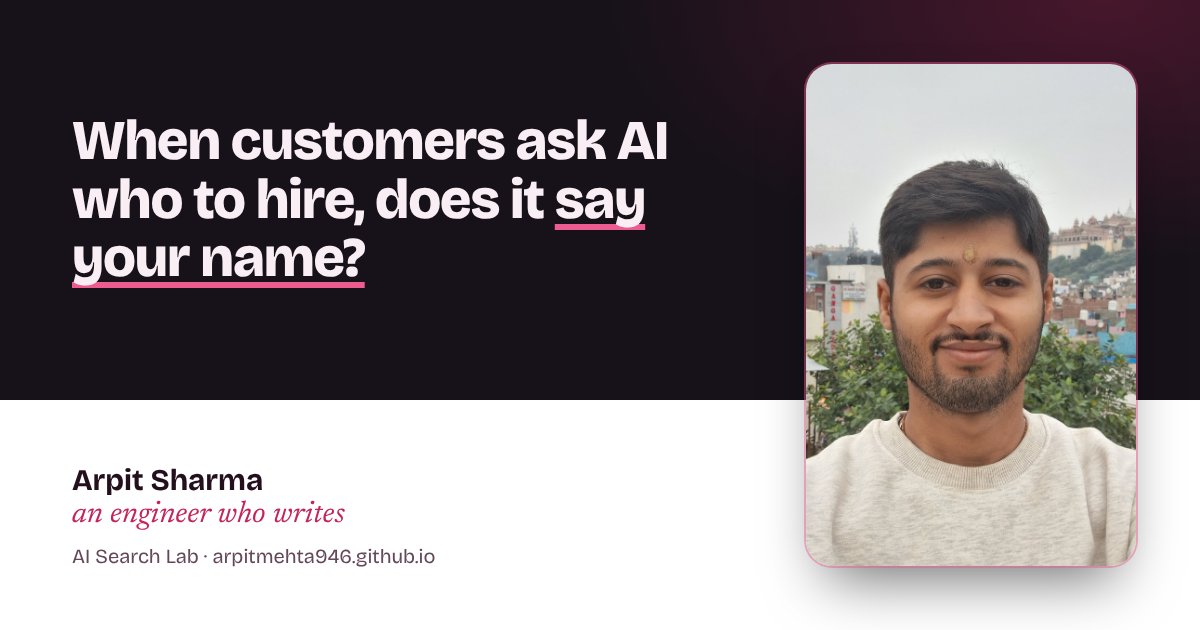
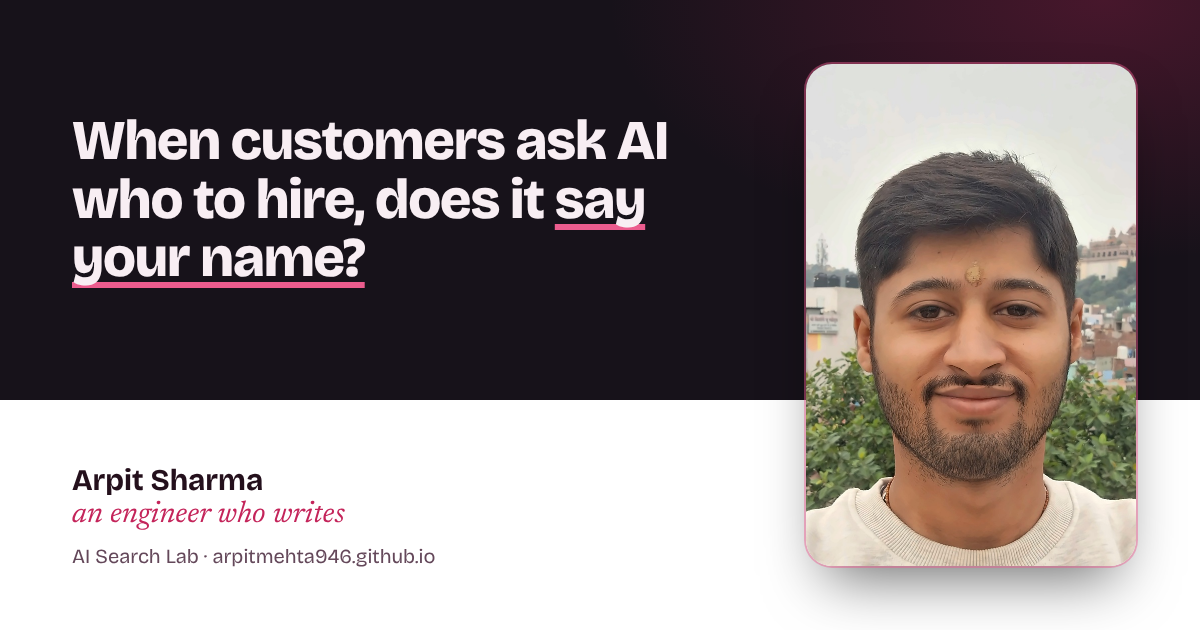
Enhanced photo: About header, home profile card, Person schema image, share image
Claude-Session: https://claude.ai/code/session_01M68n7HZHTDYbQFJamgv4ix

Changed region(s): [[0.6475, 0.2413, 0.9558, 0.9048]]

diff --git a/index.html b/index.html
@@ -34,7 +34,7 @@
       "@id": "https://arpitmehta946.github.io/#arpit",
       "name": "Arpit Sharma",
       "url": "https://arpitmehta946.github.io/",
-      "image": "https://arpitmehta946.github.io/og.png",
+      "image": "https://arpitmehta946.github.io/arpit-sharma.jpg",
       "email": "mailto:arpitmehtam@gmail.com",
       "jobTitle": "SEO & Content Specialist",
       "description": "Engineer who writes, from Amb, Himachal Pradesh. Runs AI Search Lab, public tests of how ChatGPT, Gemini, Perplexity and Google AI Mode choose which brands to recommend. Built PayEdd. Currently SEO & Content at Aqlix IT Solutions.",
@@ -445,6 +445,7 @@ h1 .tool{background:none!important;-webkit-background-clip:initial!important;bac
 #proof .check,#work .check,.contact .check{background:linear-gradient(150deg,rgba(244,163,191,.14),rgba(196,36,90,.10))!important;border-color:rgba(244,163,191,.3)!important}
 section:not(.hero):not(#proof):not(#work):not(.contact){padding-top:110px;padding-bottom:110px}
 footer{background:#17121A;color:#ADA0A9}
+.kp .av{overflow:hidden;padding:0}.kp .av img{width:100%;height:100%;object-fit:cover;display:block}
 </style>
 <script>(function(){function ok(t){return t&&t.closest&&t.closest('input,textarea,code,.mail,.copyable')}
 ['copy','cut'].forEach(function(ev){document.addEventListener(ev,function(e){if(!ok(e.target)&&!ok(document.activeElement))e.preventDefault()})});
@@ -672,7 +673,7 @@ document.addEventListener('selectstart',function(e){if(!ok(e.target.nodeType===1
     <div class="kp-stage">
       <div class="kp glass">
         <p class="lbl">What I want AI to say when you ask about me</p>
-        <div class="id"><div class="av" aria-hidden="true">AS</div><div><b>Arpit Sharma</b><span>an engineer who writes</span></div></div>
+        <div class="id"><div class="av"><img src="arpit-sharma.jpg" width="64" height="64" alt="Arpit Sharma" loading="lazy"></div><div><b>Arpit Sharma</b><span>an engineer who writes</span></div></div>
         <dl>
           <div><dt>Now</dt><dd>SEO &amp; Content, Aqlix IT Solutions</dd></div>
           <div><dt>Known for</dt><dd>AI Search Lab, weekly public tests</dd></div>

diff --git a/about.html b/about.html
@@ -142,6 +142,7 @@ document.addEventListener('selectstart',function(e){if(!ok(e.target.nodeType===1
 /* Dark footer band (matches home) */
 footer{background:#17121A!important;color:#ADA0A9!important;box-shadow:0 0 0 100vmax #17121A;clip-path:inset(0 -100vmax -100vmax);border-top:0!important;padding-top:34px!important;padding-bottom:40px!important}
 footer a{color:#F08DB0!important}footer *{color:inherit}
+header .me{display:block;width:112px;height:112px;border-radius:50%;object-fit:cover;margin:44px 0 22px;box-shadow:0 0 0 3px #17121A,0 0 0 5px #EC5C8E}
 </style>
 <script type="application/ld+json">
 {
@@ -161,6 +162,7 @@ footer a{color:#F08DB0!important}footer *{color:inherit}
       "@id": "https://arpitmehta946.github.io/#arpit",
       "name": "Arpit Sharma",
       "url": "https://arpitmehta946.github.io/",
+      "image": "https://arpitmehta946.github.io/arpit-sharma.jpg",
       "jobTitle": "SEO & Content Specialist",
       "worksFor": { "@type": "Organization", "name": "Aqlix IT Solutions" },
       "address": { "@type": "PostalAddress", "addressLocality": "Amb", "addressRegion": "Himachal Pradesh", "addressCountry": "IN" },
@@ -180,6 +182,7 @@ footer a{color:#F08DB0!important}footer *{color:inherit}
       <a href="./">Arpit Sharma, an engineer who writes</a>
       <nav aria-label="Main"><a href="./#proof">AI Search Lab</a><a href="self-check.html">Self-check</a></nav>
     </div>
+    <img class="me" src="arpit-sharma.jpg" width="112" height="112" alt="Photo of Arpit Sharma">
     <h1>Arpit Sharma, an engineer who writes and tests how AI decides which brands to recommend</h1>
     <p class="lede">Arpit Sharma is an engineer who writes, from Amb, Himachal Pradesh. He runs AI Search Lab, public tests of how ChatGPT, Gemini, Perplexity and Google AI Mode choose which brands to recommend, and built PayEdd.</p>
   </div>
